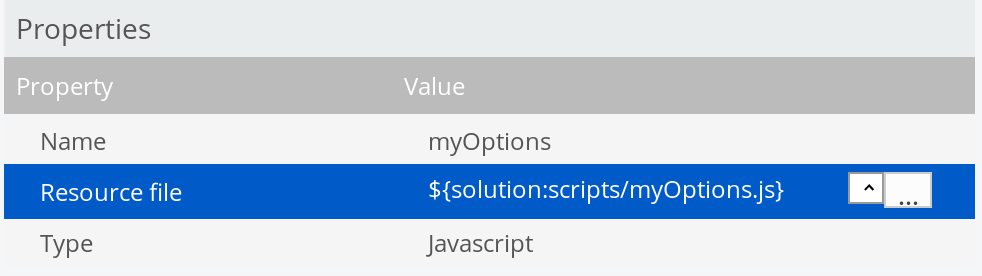
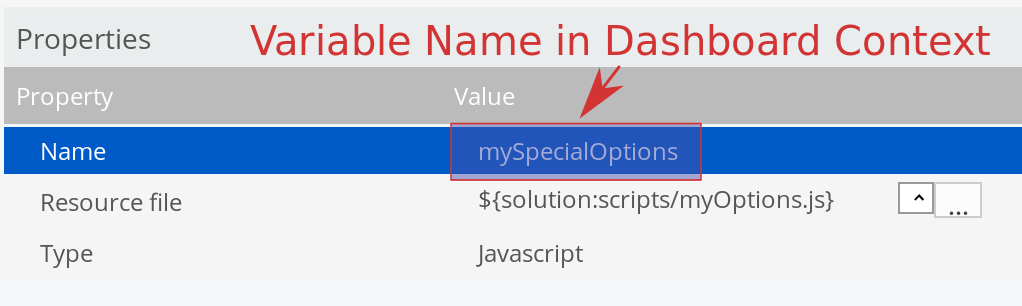
advance requirejs section added

diff --git a/_posts/2017-04-27-Twenty-seconds-to-embedded-dashboard.md b/_posts/2017-04-27-Twenty-seconds-to-embedded-dashboard.md
@@ -1,6 +1,6 @@
 ---
 layout: post
-title: "20 Seconds to Embedding a CDE Dashboard and Fixing RequireJS Cache Problem"
+title: "20 Seconds to Embedding a CDE Dashboard and RequireJS"
 summary: This article discusses how to embed a CDE dashboard in an external site
 date: 2017-04-27
 categories: CDE
@@ -77,7 +77,11 @@ The most basic skeleton looks like this (read inline comments):
 </html>
 ```
 
-## Adding JS resources
+## Adding the JavaScript resources
+
+Embedding CDE Dashboards was one of the main reasons why **RequireJS** support was introduced a while back in CDE (around Pentaho Server version 5). First of all dashboard objects shouldn't polute the global space (avoiding conflicts with variable names that are in common with your custom scripts) and secondly only resources required to render that particular dashboard should be downloaded, not all of them. We will go through an extremely simple example here. 
+
+> **Note**: When you create a new **CDE Dashboard**, in the settings panel the option to use **RequireJS** is enabled by default.
 
 We follow the **RequireJS** approach outlined [here](http://redmine.webdetails.org/projects/cde/wiki/RequireJS).
 
@@ -93,11 +97,11 @@ define(function() {
 });
 ```
 
-In your dashboard, refernce it as an external resource (as you usually would do, nothing changes here). The CDE **Property Name** that you define for the external resource will be the name of the variable accessible in the dashboard context. So in my case I called it `myOptions`:
+In your CDE dashboard, reference it as an external resource (as you usually would do, nothing changes here). The CDE **Property Name** that you define for the external resource will be the name of the variable accessible in the dashboard context. So in my case I called it `mySpecialOptions`:
 
 ![](/images/cde-embedded/cde-requirejs-1.png)
 
-Once you render the dashboard, take a look at the resources in the dev tools of your web browser, and you should see the in the `generatedContents`
+Once you render the dashboard, take a look at the resources in the dev tools of your web browser, and you should see the details in the `generatedContents`:
 
 ![](/images/cde-embedded/cde-requirejs-2.png)
 
@@ -110,6 +114,47 @@ Browser Debugging Tools: I am using Firefox here, but it will be fairly similar 
 - **Network Manager**: Scroll down the list to find your file. Clicking on the name reveals more info.
 
   ![](/images/cde-embedded/cde-requirejs-4.png)
+
+## Making use of the functions
+
+Following the example above, where we defined `mySpecialOptions` as the Dashboard context variable for our Javascript, we can just make use of it like so (example for **TextComponent** expression):
+
+
+```javascript
+function(){
+  return mySpecialOptions.option1;
+} 
+```
+
+## JavaScript file with dependency on other JavaScript file
+
+So imagine we create a new **JavaScript** file called `myExtendedOptions`, which requires some functionality from our other JavaScript file (`myOptions`). In this case we can reference it like so (here we also reference jquery, although strictly speaking we don't need it):
+
+```javascript
+define(["cdf/lib/jquery", "cde/resources/public/embedded/scripts/myOptions"], function($, myBaseOptions) {
+  return {
+    option1: myBaseOptions.option1
+    , option2: myBaseOptions.option2
+    , option3: 'Light breeze'
+    , option4: 'Snow'
+  };
+});
+```
+
+
+There are a few things to note here:
+
+- **CDE Core Libraries** are referenced using this base path: `cdf/lib/`.
+- Your **Custom JavaScript Files** are referenced using this base path: `cde/resources/`
+- As function parameters the object variables are passed, in this case `$` for JQuery and `myBaseOptions` as reference to the `myOptions` script.
+
+You register this **JavaScript** file with CDE as an external JavaScript file. I gave it the property name `mySpecialExtendedOptions`. Now we can reference it like so (using a **Text Component** again) e.g.:
+
+```javascript
+function(){
+  return mySpecialExtendedOptions.option3;
+} 
+```
 
 ## Issue: Changes in files are not reflected client-side
 
